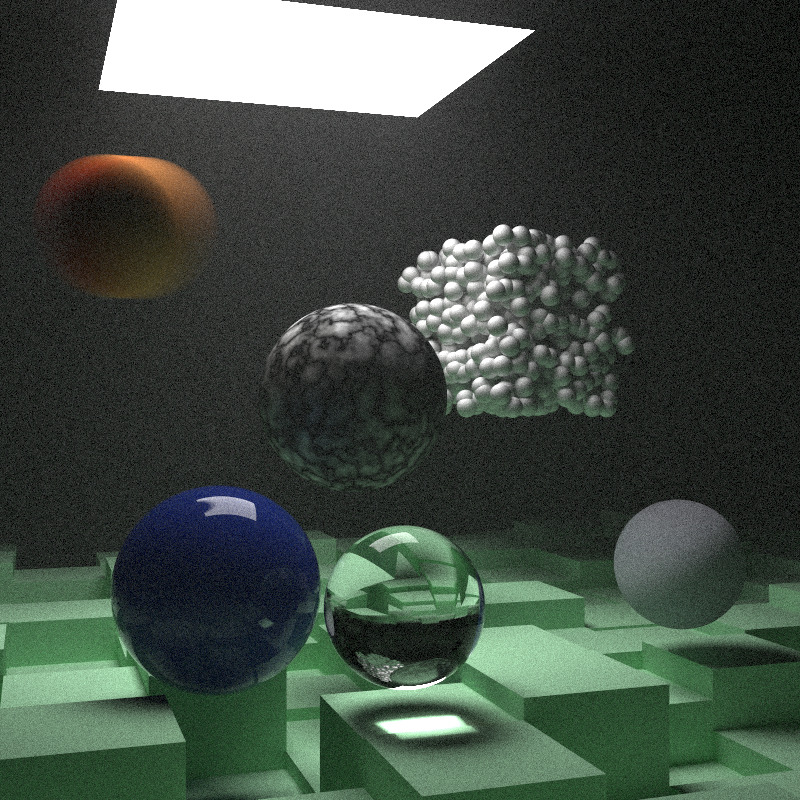
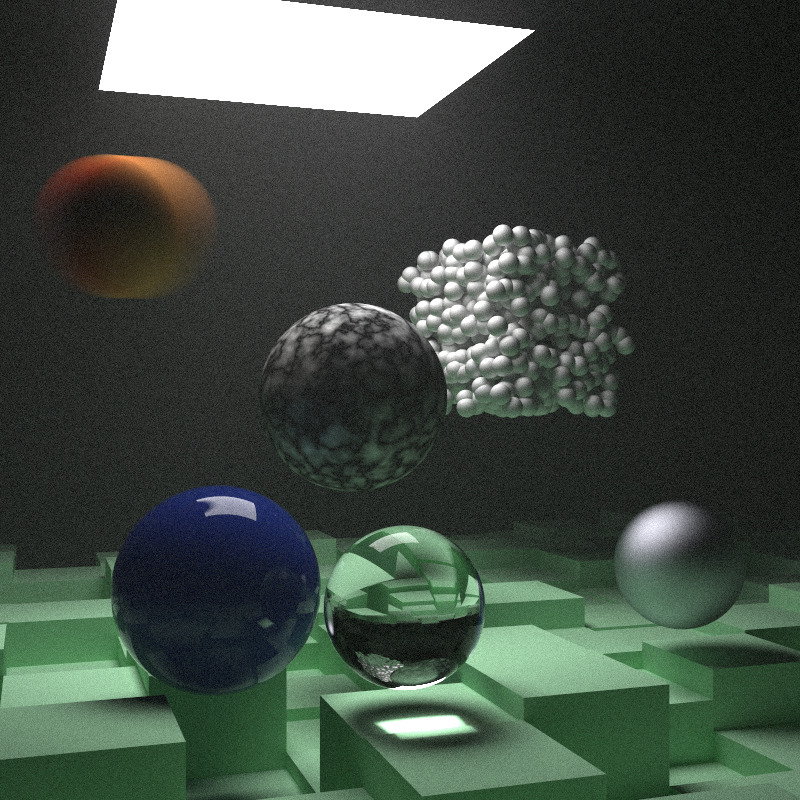
Fix some differences from the book algorithm.
In particular: this codebase doesn't limit the metal fuzz parameter to
1.0, and so the 10.0 given in the book's final scene produces weird
results.

diff --git a/src/lib.rs b/src/lib.rs
@@ -68,8 +68,6 @@ pub fn color(world: &impl World, mut ray: Ray, rng: &mut impl Rng) -> Vec3 {
     // 2. The ray reaches a surface that does not scatter.
     // 3. The ray bounces more than 50 times.
     while let Some(hit) = world.hit_top(&ray, rng) {
-        if bounces == 50 { break }
-        bounces += 1;
 
         // Record this hit's contribution, attenuated by the total attenuation
         // so far.
@@ -89,6 +87,10 @@ pub fn color(world: &impl World, mut ray: Ray, rng: &mut impl Rng) -> Vec3 {
             // Locally absorbed; we're done.
             return accum
         }
+
+        if bounces == 50 { return accum }
+
+        bounces += 1;
     }
 
     Vec3::default()

diff --git a/src/main.rs b/src/main.rs
@@ -243,7 +243,7 @@ fn book_final_scene(
             radius: 50.,
             material: Material::Metal {
                 albedo: Vec3(0.8, 0.8, 0.9),
-                fuzz: 10.,
+                fuzz: 1.,
             },
         },
     }));
